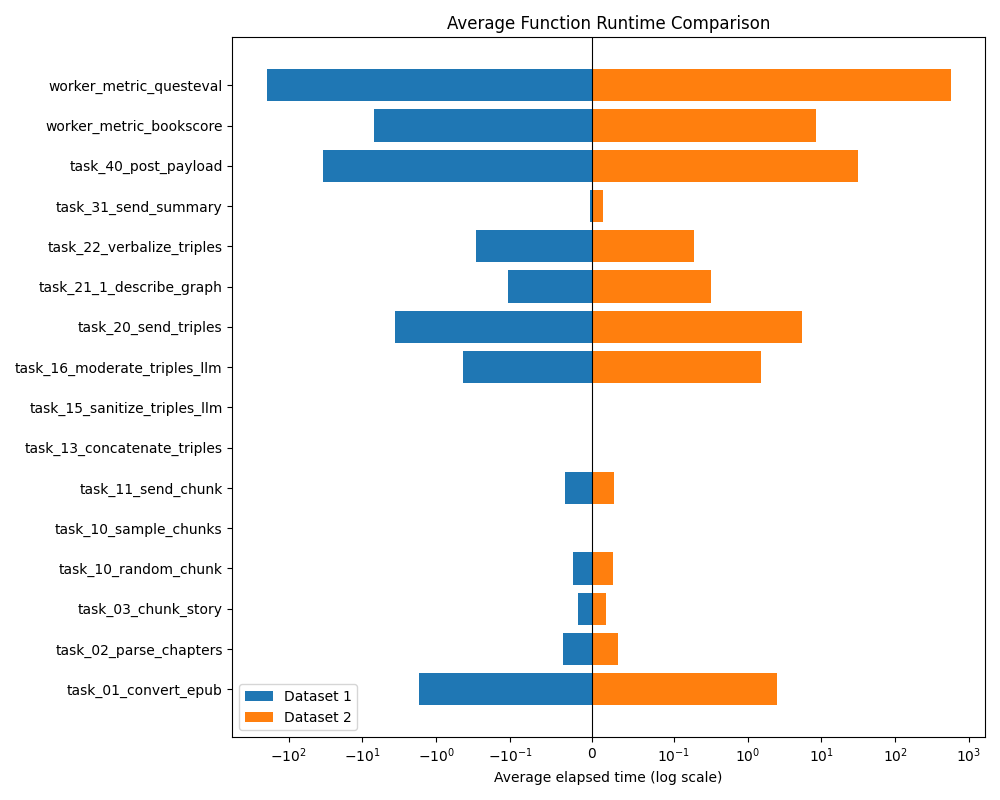
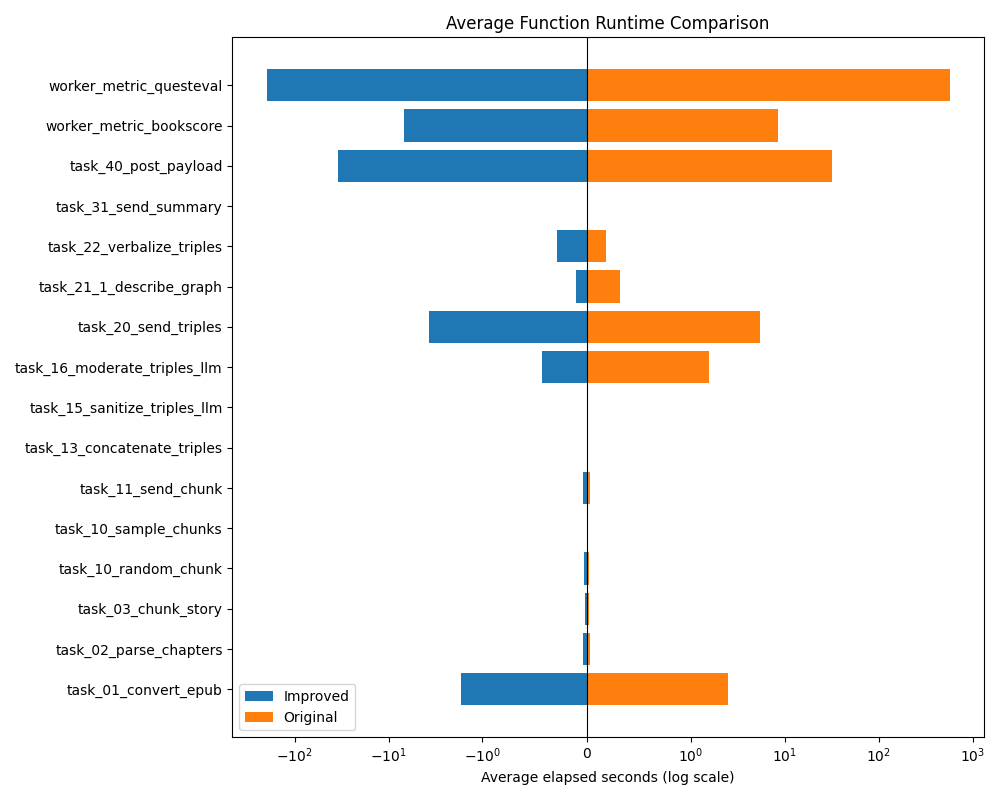
chart refine log scale

diff --git a/src/charts.py b/src/charts.py
@@ -70,6 +70,7 @@ class Plot:
         csv1: str = None,
         csv2: str = None,
         only_pipeline: Optional[bool] = None,
+        log_scale: bool = False,
     ) -> None:
         """Plot average elapsed time per function name from two CSV files as mirrored horizontal bars.
         @param filename  Where to save the generated chart
@@ -109,11 +110,15 @@ class Plot:
         ax.barh(y_pos, merged['elapsed_right'], align='center', label='Original')
         
         # Configure axes with log scale to handle outliers
-        ax.set_xscale('symlog', linthresh=0.1)
+        if log_scale:
+            ax.set_xscale('symlog', linthresh=1.0)
         ax.set_yticks(y_pos)
         ax.set_yticklabels(merged['function'])
         ax.axvline(0, color='black', linewidth=0.8)
-        ax.set_xlabel("Average elapsed seconds (log scale)")
+        if log_scale:
+            ax.set_xlabel("Average elapsed seconds (log scale)")
+        else:
+            ax.set_xlabel("Average elapsed time (seconds)")
         ax.set_title("Average Function Runtime Comparison")
         ax.legend()
         
@@ -140,6 +145,7 @@ if __name__ == "__main__":
         filename=args.output,
         csv1=args.csv1,
         csv2=args.csv2,
-        only_pipeline=False
+        only_pipeline=False,
+        log_scale=True
     )
 
